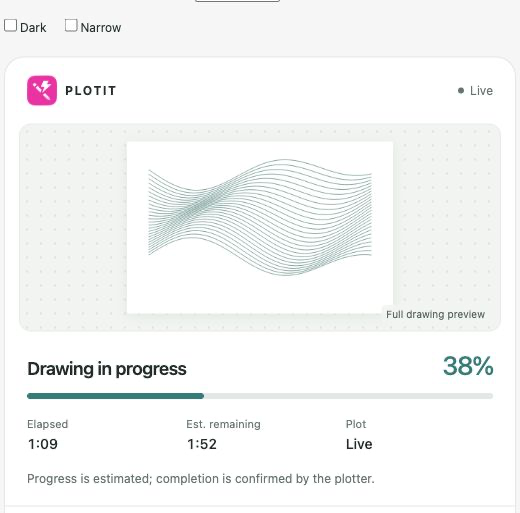
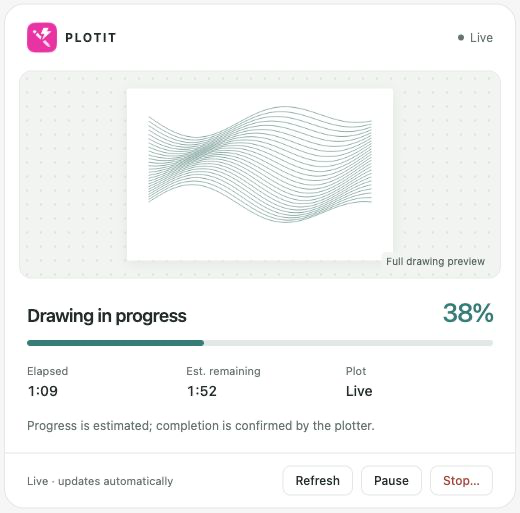
Refresh the full progress card capture with shared branding

diff --git a/site/macos/media/README.md b/site/macos/media/README.md
@@ -7,3 +7,5 @@ The four public images live in `public/macos/media/`. HTML uses `%BASE_URL%macos
 - `plot-progress.png`: the bundled MCP Apps progress card captured inside `scripts/preview-plot-progress.mjs`, using simulated drawing data. This is a component preview, not an assertion that a particular agent client renders cards or that a physical plot has completed.
 
 Native captures can be regenerated with `PLOTIT_CAPTURE_DIR=/tmp/plotit-site-media swift test --package-path macos --filter UISnapshotTests`. Copy `setup-0.png` and `setup-1.png` to the names above. The website captions disclose example/simulated data. Retain readable controls, alt text, and the original aspect ratios.
+
+For card screenshots, capture the iframe using document coordinates (its viewport rectangle plus page scroll offsets), after the progress-bar transition settles. Exclude the preview host controls. Screenshot bytes may be JPEG; explicitly convert to PNG before saving a `.png` asset and inspect the resulting image.
